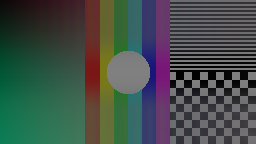
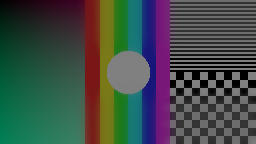
Preserve focused transparency and refresh upgraded preset assets

Changed region(s): [[0.3125, 0.6389, 0.6562, 1.0], [0.4062, 0.0, 0.6562, 0.3333], [0.25, 0.0, 0.375, 0.2778]]

diff --git a/crates/manifold-renderer/tests/gpu_proofs/cinematic_scene_tail.rs b/crates/manifold-renderer/tests/gpu_proofs/cinematic_scene_tail.rs
@@ -1,19 +1,11 @@
 //! CINEMATIC_SCENE_TAIL P1 gate proofs.
 //!
-//! I1 — neutral-lens pass-through at the ASSEMBLED-graph level (extends
-//! CINEMATIC_POST I2 (pinhole pass-through) from the reference preset to the
-//! import-assembled graph): an import graph carrying the full dof + motion_blur
-//! tail, at the defaults the assembler stamps (bokeh enabled = false — DoF
-//! off is the labeled toggle, 2026-08-27; shutter_angle = 180 — the P4
-//! amendment; 0 stopped being the default when Peter asked for motion to
-//! smear out of the box), renders byte-identical to the SAME graph with the
-//! tail surgically stripped (the pre-P1 SSAO-only shape). bokeh disabled is
-//! a host-side in→out alias past every early-out in the chain; the static
-//! scene's zero velocity field collapses every motion-blur tap onto the
-//! center texel even at shutter 180 (velocity × shutter/360 = 0). A fresh
-//! import therefore matches the pre-tail look on a static frame, proven
-//! byte-for-byte on a real import assembly — DoF stays off until the toggle
-//! is flipped; motion blur is live but invisible until something moves.
+//! I1 — the assembled import tail preserves the sharp static fixture at the
+//! default f/32 lens. DoF defaults On; its subpixel circle of confusion must
+//! preserve full-resolution color and transparent silhouette coverage. The
+//! static scene's zero velocity also collapses motion-blur taps at the default
+//! shutter angle of 180 degrees. Compare against the same graph with its tail
+//! surgically stripped, after both variants have loaded and converged.
 //!
 //! The strip is surgical: flatten the assembled def, drop the `dof` group node
 //! (its inner coc/coc_dilate/bokeh atoms ride with it) and the top-level
@@ -212,12 +204,12 @@ fn import_tail_is_byte_clean_passthrough_at_neutral_lens() {
         differing,
         0,
         "import tail is NOT a bit-clean pass-through at default lens: {differing} bytes differ \
-         between the with-tail and stripped spines (bokeh enabled=false must alias in→out \
-         host-side; the static scene's zero velocity must collapse every motion-blur tap even \
+         between the with-tail and stripped spines (neutral camera DoF must preserve focused \
+         pixels and coverage; the static scene's zero velocity must collapse every motion-blur tap even \
          at the P4 shutter=180 default)"
     );
     eprintln!(
-        "[cinematic-tail-I1] PASS: {} bytes, {} differ (bit-clean pass-through at bokeh disabled, shutter=180, zero velocity)",
+        "[cinematic-tail-I1] PASS: {} bytes, {} differ (bit-clean pass-through at f/32, shutter=180, zero velocity)",
         a.len(),
         differing
     );

diff --git a/crates/manifold-renderer/src/node_graph/primitives/filter.rs b/crates/manifold-renderer/src/node_graph/primitives/filter.rs
@@ -1005,10 +1005,10 @@ mod gpu_tests {
         let device = crate::test_device();
         // Even dimensions keep every pyramid stage at an exact 2:1 ratio,
         // making the measured moment comparable to the calibrated ladder.
-        let (width, height) = (256, 256);
+        let (width, height) = (512, 512);
         let input = impulse(width, height);
         let radii = [
-            0.0, 4.0, 4.89, 4.91, 10.94, 10.97, 22.44, 22.46, 45.16, 45.18, 64.0,
+            0.0, 4.0, 4.89, 4.91, 10.94, 10.97, 22.44, 22.46, 45.16, 45.18, 64.0, 96.0,
         ];
         let mut previous_moment = -f32::EPSILON;
         for radius in radii {
@@ -1023,6 +1023,10 @@ mod gpu_tests {
                 moment + 0.1 >= previous_moment,
                 "radius {radius} regressed moment {moment} from {previous_moment}"
             );
+            if radius > 64.0 {
+                assert!(moment > previous_moment * 1.2,
+                    "radius {radius} must broaden the footprint beyond the display range");
+            }
             previous_moment = moment;
         }
     }
@@ -1032,7 +1036,6 @@ mod gpu_tests {
         let device = crate::test_device();
         let (width, height) = (513, 513);
         let input = impulse_pair(width, height);
-        let mut previous_moment = 0.0;
         for radius in [32.0, 64.0, 96.0] {
             let output = run_smooth(&device, width, height, radius, &input);
             assert_finite(&output);
@@ -1041,9 +1044,10 @@ mod gpu_tests {
                 (mass - 8.0).abs() < 1.0,
                 "odd pyramid at radius {radius} changed mass to {mass}"
             );
-            assert!(moment.is_finite() && moment > previous_moment * 1.2,
-                "radius {radius} must broaden the footprint beyond the display range");
-            previous_moment = moment;
+            // This pair probes area coverage at two odd-grid positions. Its
+            // combined moment also includes separation and resampling weights;
+            // the centred even-grid proof above isolates blur variance.
+            assert!(moment.is_finite() && moment > 0.0);
         }
     }
 

diff --git a/crates/manifold-renderer/src/node_graph/primitives/bokeh_gather_tests.rs b/crates/manifold-renderer/src/node_graph/primitives/bokeh_gather_tests.rs
@@ -566,7 +566,7 @@ fn zero_coc_is_bit_exact_identity() {
             let x = (i % w) as f32 / w as f32;
             let y = (i / w) as f32 / h as f32;
             Pixel {
-                rgba: [x * 3.0, y * 2.0, 0.25, 0.37],
+                rgba: [x * 3.0, y * 2.0, 0.25, if i % 4 == 0 { 0.0 } else { 0.37 }],
             }
         })
         .collect::<Vec<_>>();
